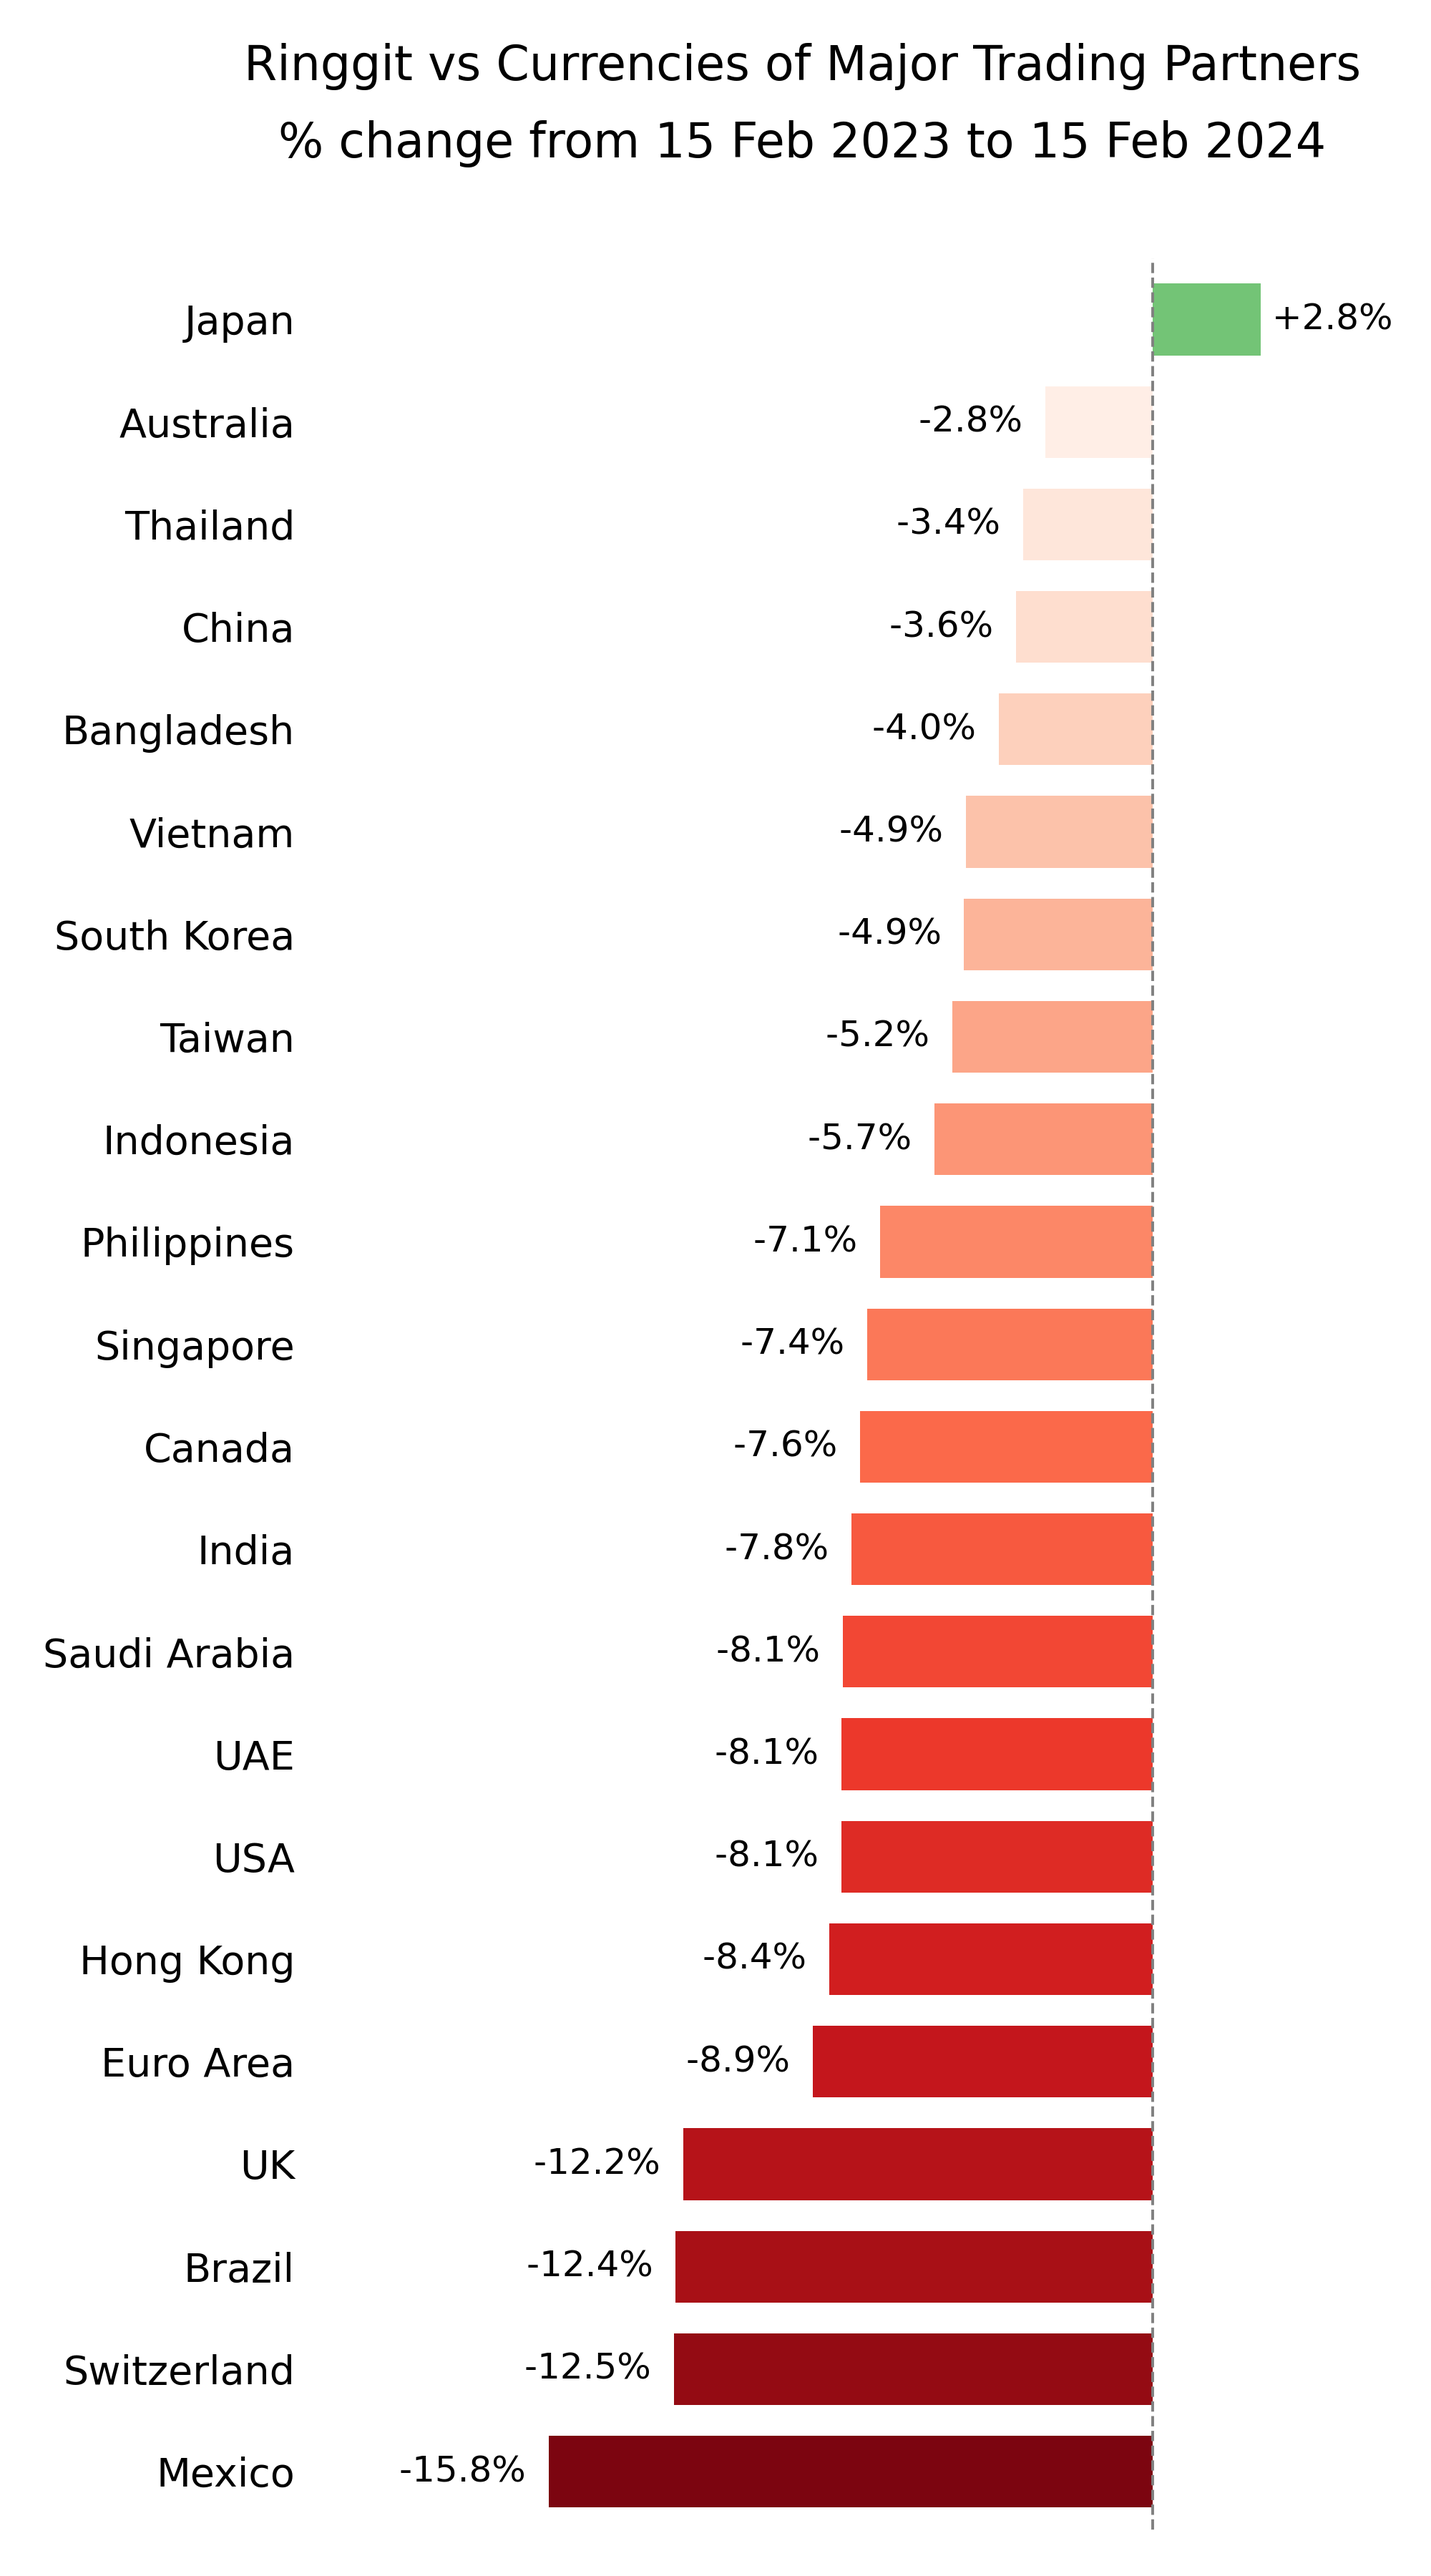
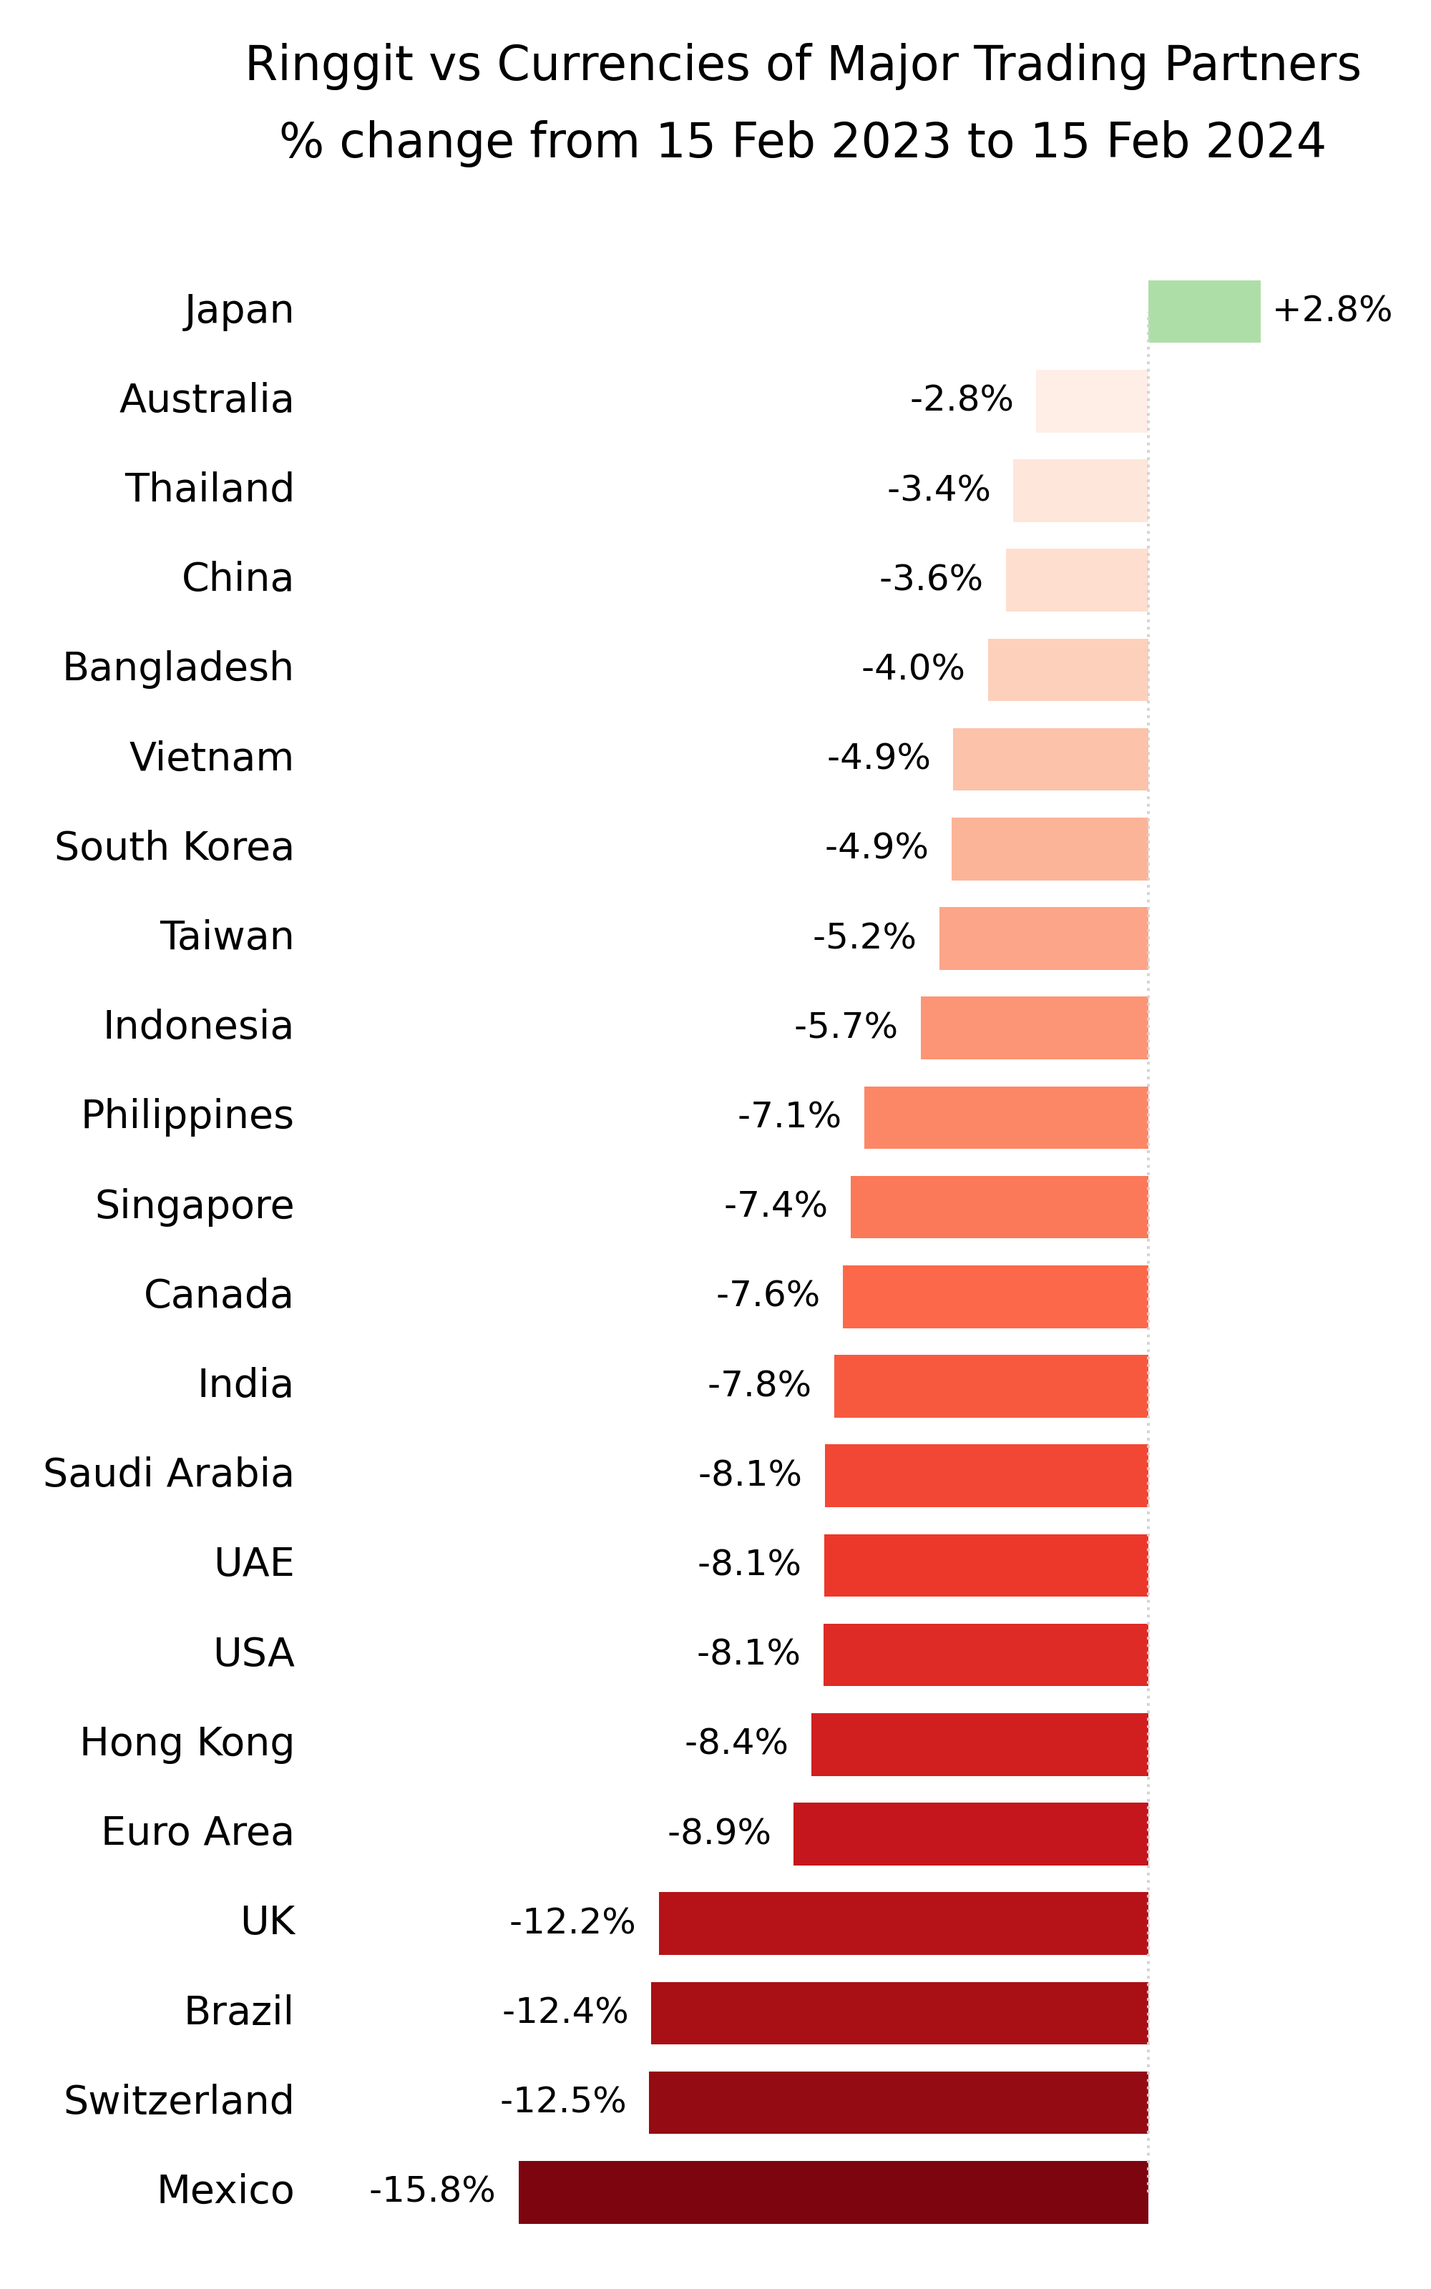
2024-02-16_er: Touchups

diff --git a/2024-02-16_er.py b/2024-02-16_er.py
@@ -1,4 +1,5 @@
 import pandas as pd
+from datetime import date
 from dateutil.relativedelta import relativedelta
 import seaborn as sb
 import numpy as np
@@ -37,6 +38,7 @@ countries = {
 
 def bar():
     df = pd.read_parquet('https://storage.data.gov.my/finsector/exchangerates.parquet')
+    df.date = df.date.dt.date
     DATE_E = df.date.iloc[-1]
     DATE_S = DATE_E - relativedelta(years=1)
     df = df[(df.date >= DATE_S) & (df.date <= DATE_E)].set_index('date')
@@ -53,13 +55,13 @@ def bar():
     plt.rcParams.update({'font.size': 10,
                         'font.family':'sans-serif',
                         'grid.linestyle': 'dotted',
-                        'figure.figsize': [5,9],
+                        'figure.figsize': [5,8],
                         'figure.autolayout': True})
     fig, ax = plt.subplots()
 
     n_pos = len(df[df.performance >= 0])
     n_neg = len(df[df.performance < 0])
-    col_pos = sb.color_palette('Greens',n_colors=n_pos).as_hex()
+    col_pos = sb.color_palette('Greens',n_colors=n_pos*2).as_hex()
     col_neg = sb.color_palette('Reds',n_colors=n_neg).as_hex()
     col_neg.reverse()
 
@@ -67,7 +69,7 @@ def bar():
     df.plot(kind='barh', width=0.7, y=v, edgecolor='black', lw=0, color=col_neg+col_pos, ax=ax)
 
     # plot-wide adjustments
-    ax.set_title(f'Ringgit vs Currencies of Major Trading Partners\n% change from {DATE_S:%d %b %Y} to {DATE_E:%d %b %Y}\n',linespacing=1.8)
+    ax.set_title(f"""Ringgit vs Currencies of Major Trading Partners\n% change from {DATE_S:%d %b %Y} to {DATE_E:%d %b %Y}\n""",linespacing=1.8)
     for b in ['top','right','bottom','left']: ax.spines[b].set_visible(False)
     ax.spines['left'].set_color('grey')
     ax.get_legend().remove()
@@ -76,15 +78,16 @@ def bar():
 
     # y-axis adjustments
     ax.set_ylabel('')
-    ax.vlines(x=0,ymin=-1,ymax=22,colors=['gray'],linestyles=['dashed'],linewidth=0.7)
+    ax.set_yticklabels(ax.get_yticklabels(), va="center")
+    ax.vlines(x=0,ymin=0,ymax=21,colors=['#d3d3d3'],linestyles=['dotted'],linewidth=0.7)
 
     # x-axis adjustments
     ax.set_xlabel('')
-    ax.set_xlim(-22)
+    ax.set_xlim(-21)
     ax.xaxis.grid(False)
     ax.get_xaxis().set_visible(False)
     for c in ax.containers:
-        labels = [f'{df[v].iloc[i]:,.1f}%  ' if i < 21 else f' +{df[v].iloc[i]:,.1f}%' for i in range(len(df))]
+        labels = [f'{df[v].iloc[i]:,.1f}%  ' if i < n_neg else f' +{df[v].iloc[i]:,.1f}%' for i in range(len(df))]
         ax.bar_label(c, labels=labels,fontsize=9)
 
     # ALT-text
